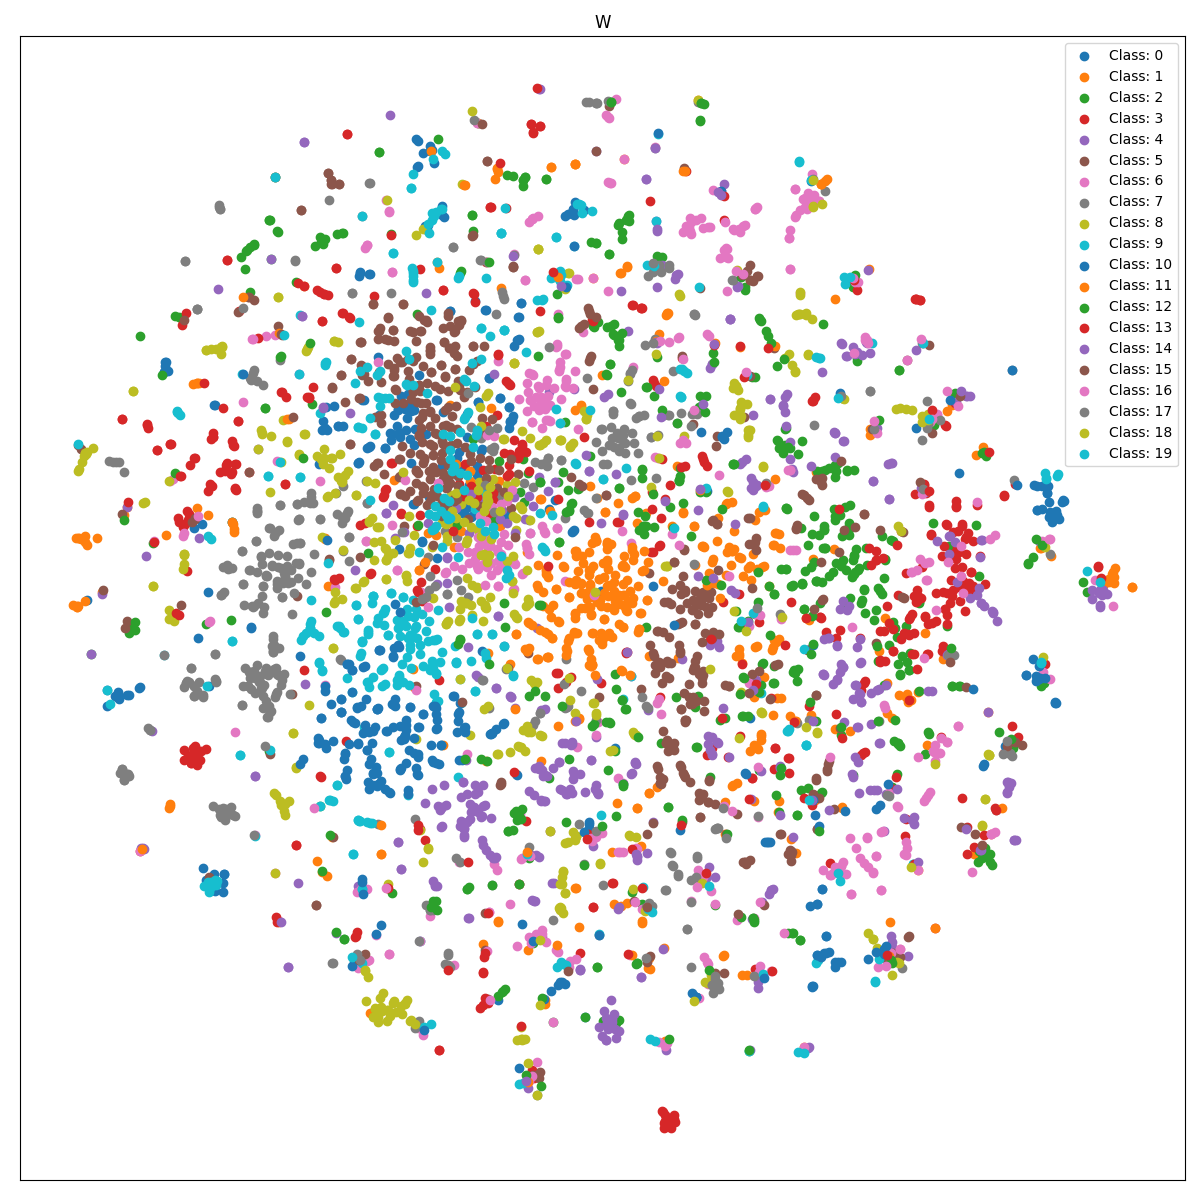
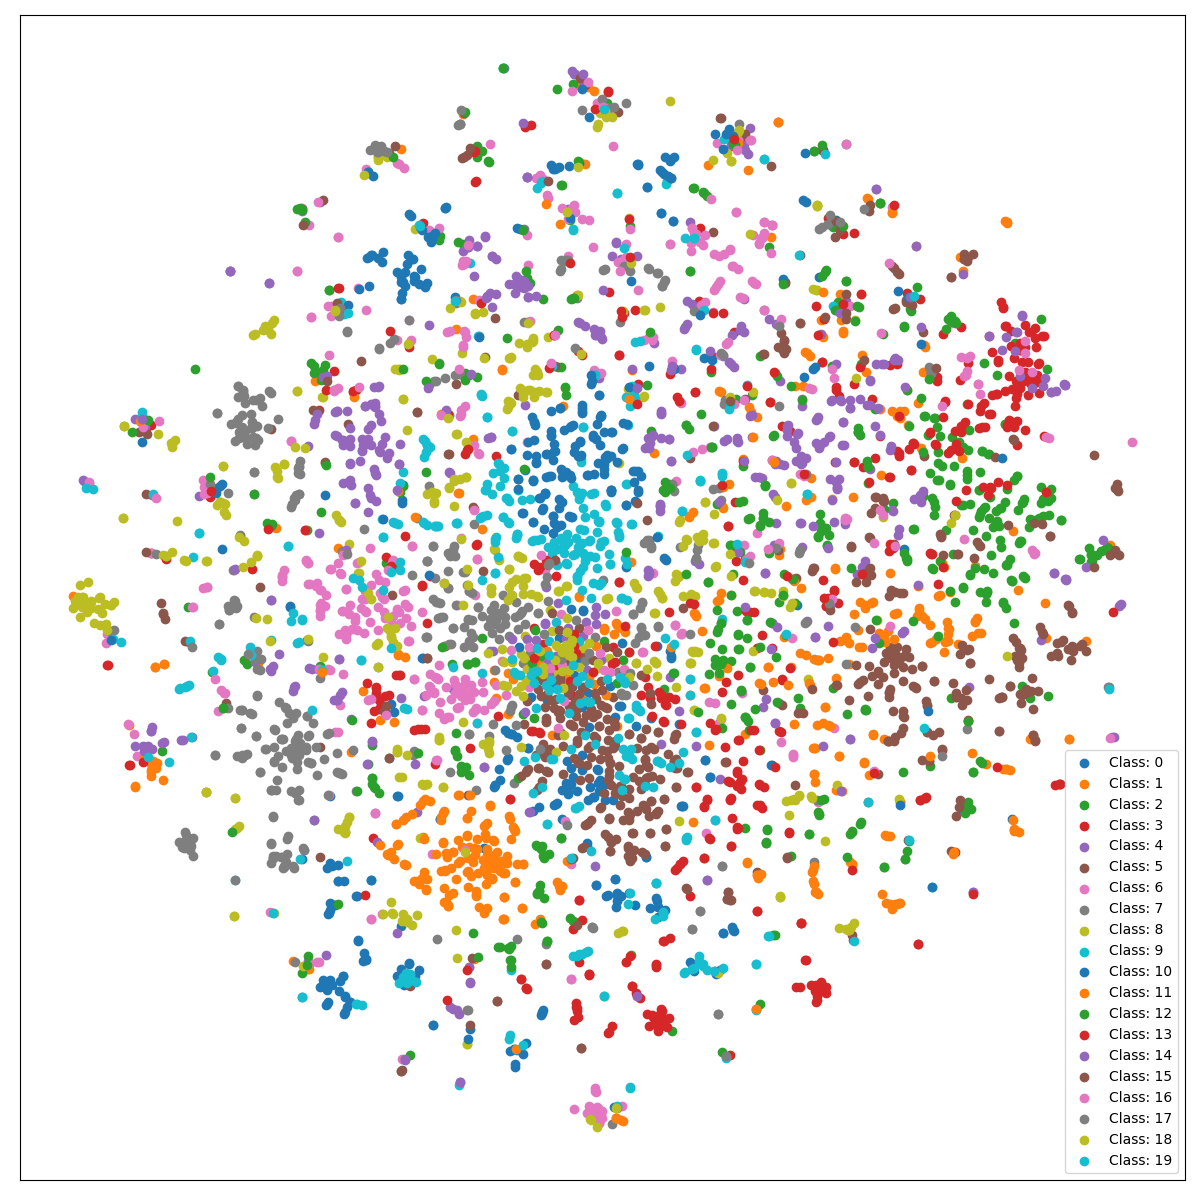
Fixed error

diff --git a/bin/metrics/spearman_score.py b/bin/metrics/spearman_score.py
@@ -6,20 +6,20 @@ import numpy as np
 
 
 class SpearmanScore():
-    def __init__(self, dataset):
+    def __init__(self, dataset, original_data):
         self.dataset = dataset
         self.scores = []
         self.labels = []
+        self.original_distances = self.calculate_distances(original_data)
 
     def calculate_distances(self, data):
         distances = distance_matrix(data, data)
         distances_flatten = np.triu(distances).flatten()
         return distances_flatten[distances_flatten != 0]
 
-    def calculate_score(self, original_data, embedded_data, method_name):
-        original_distances = self.calculate_distances(original_data)
-        embedded_distances = self.calculate_distances(embedded_data)
-        score = stats.spearmanr(original_distances, embedded_distances)
+    def calculate_score(self, embedded_data, method_name):
+        embedded_distances = self.calculate_distances(embedded_data)[:self.original_distances.shape[0]]
+        score = stats.spearmanr(self.original_distances, embedded_distances)
         self.scores.append(score.correlation)
         self.labels.append(method_name)
 

diff --git a/bin/main.py b/bin/main.py
@@ -26,7 +26,7 @@ if __name__ == '__main__':
         local_metric = LocalMetric()
         time_metric = TimeScore(dataset_name)
         cluster_metric = ClusterScore(dataset_name)
-        spearman_metric = SpearmanScore(dataset_name)
+        spearman_metric = SpearmanScore(dataset_name, values)
 
         for method, method_name in zip(methods, method_names):
             print(f"{method_name} embedding...")
@@ -42,10 +42,10 @@ if __name__ == '__main__':
                 method_name=method_name
             )
             cluster_metric.calculate_cluster_score(output, labels, method_name)
-            spearman_metric.calculate_score(values, output, method_name)
+            spearman_metric.calculate_score(output, method_name)
 
         # Metrics comparison
-        local_metric.visualize()
+        local_metric.visualize(dataset_name)
         time_metric.visualize()
         cluster_metric.visualize()
         spearman_metric.visualize()

diff --git a/bin/metrics/local_score.py b/bin/metrics/local_score.py
@@ -306,7 +306,7 @@ class LocalMetric:
         self.Lls.append("solid")
         self.number_of_methods = self.number_of_methods + 1
 
-    def visualize(self):
+    def visualize(self, dataset_name):
         Lmarkers = random.sample(markers, self.number_of_methods)
         Lcols = random.sample(colors, self.number_of_methods)
         Lmedw = [1.0] * self.number_of_methods
@@ -320,7 +320,7 @@ class LocalMetric:
             Lls=self.Lls,
             Lmedw=Lmedw,
             Lsdots=Lsdots,
-            tit="DR quality",
+            tit=f'{dataset_name}_dr_quality',
             xlabel="Neighborhood size $K$",
             ylabel="$R_{NX}(K)$",
         )
@@ -333,7 +333,7 @@ class LocalMetric:
             Lls=self.Lls,
             Lmedw=Lmedw,
             Lsdots=Lsdots,
-            tit="KNN gain",
+            tit=f'{dataset_name}_KNN_gain',
             xlabel="Neighborhood size $K$",
             ylabel="$G_{NN}(K)$",
         )

diff --git a/bin/utils.py b/bin/utils.py
@@ -43,7 +43,6 @@ def save_plot_2d_scatter(X, labels, filename):
     plot.set_xticks(())
     plot.set_yticks(())
 
-    plt.title("W")
     plt.tight_layout()
     plt.legend()
     plt.savefig(f'outputs/{filename}')
